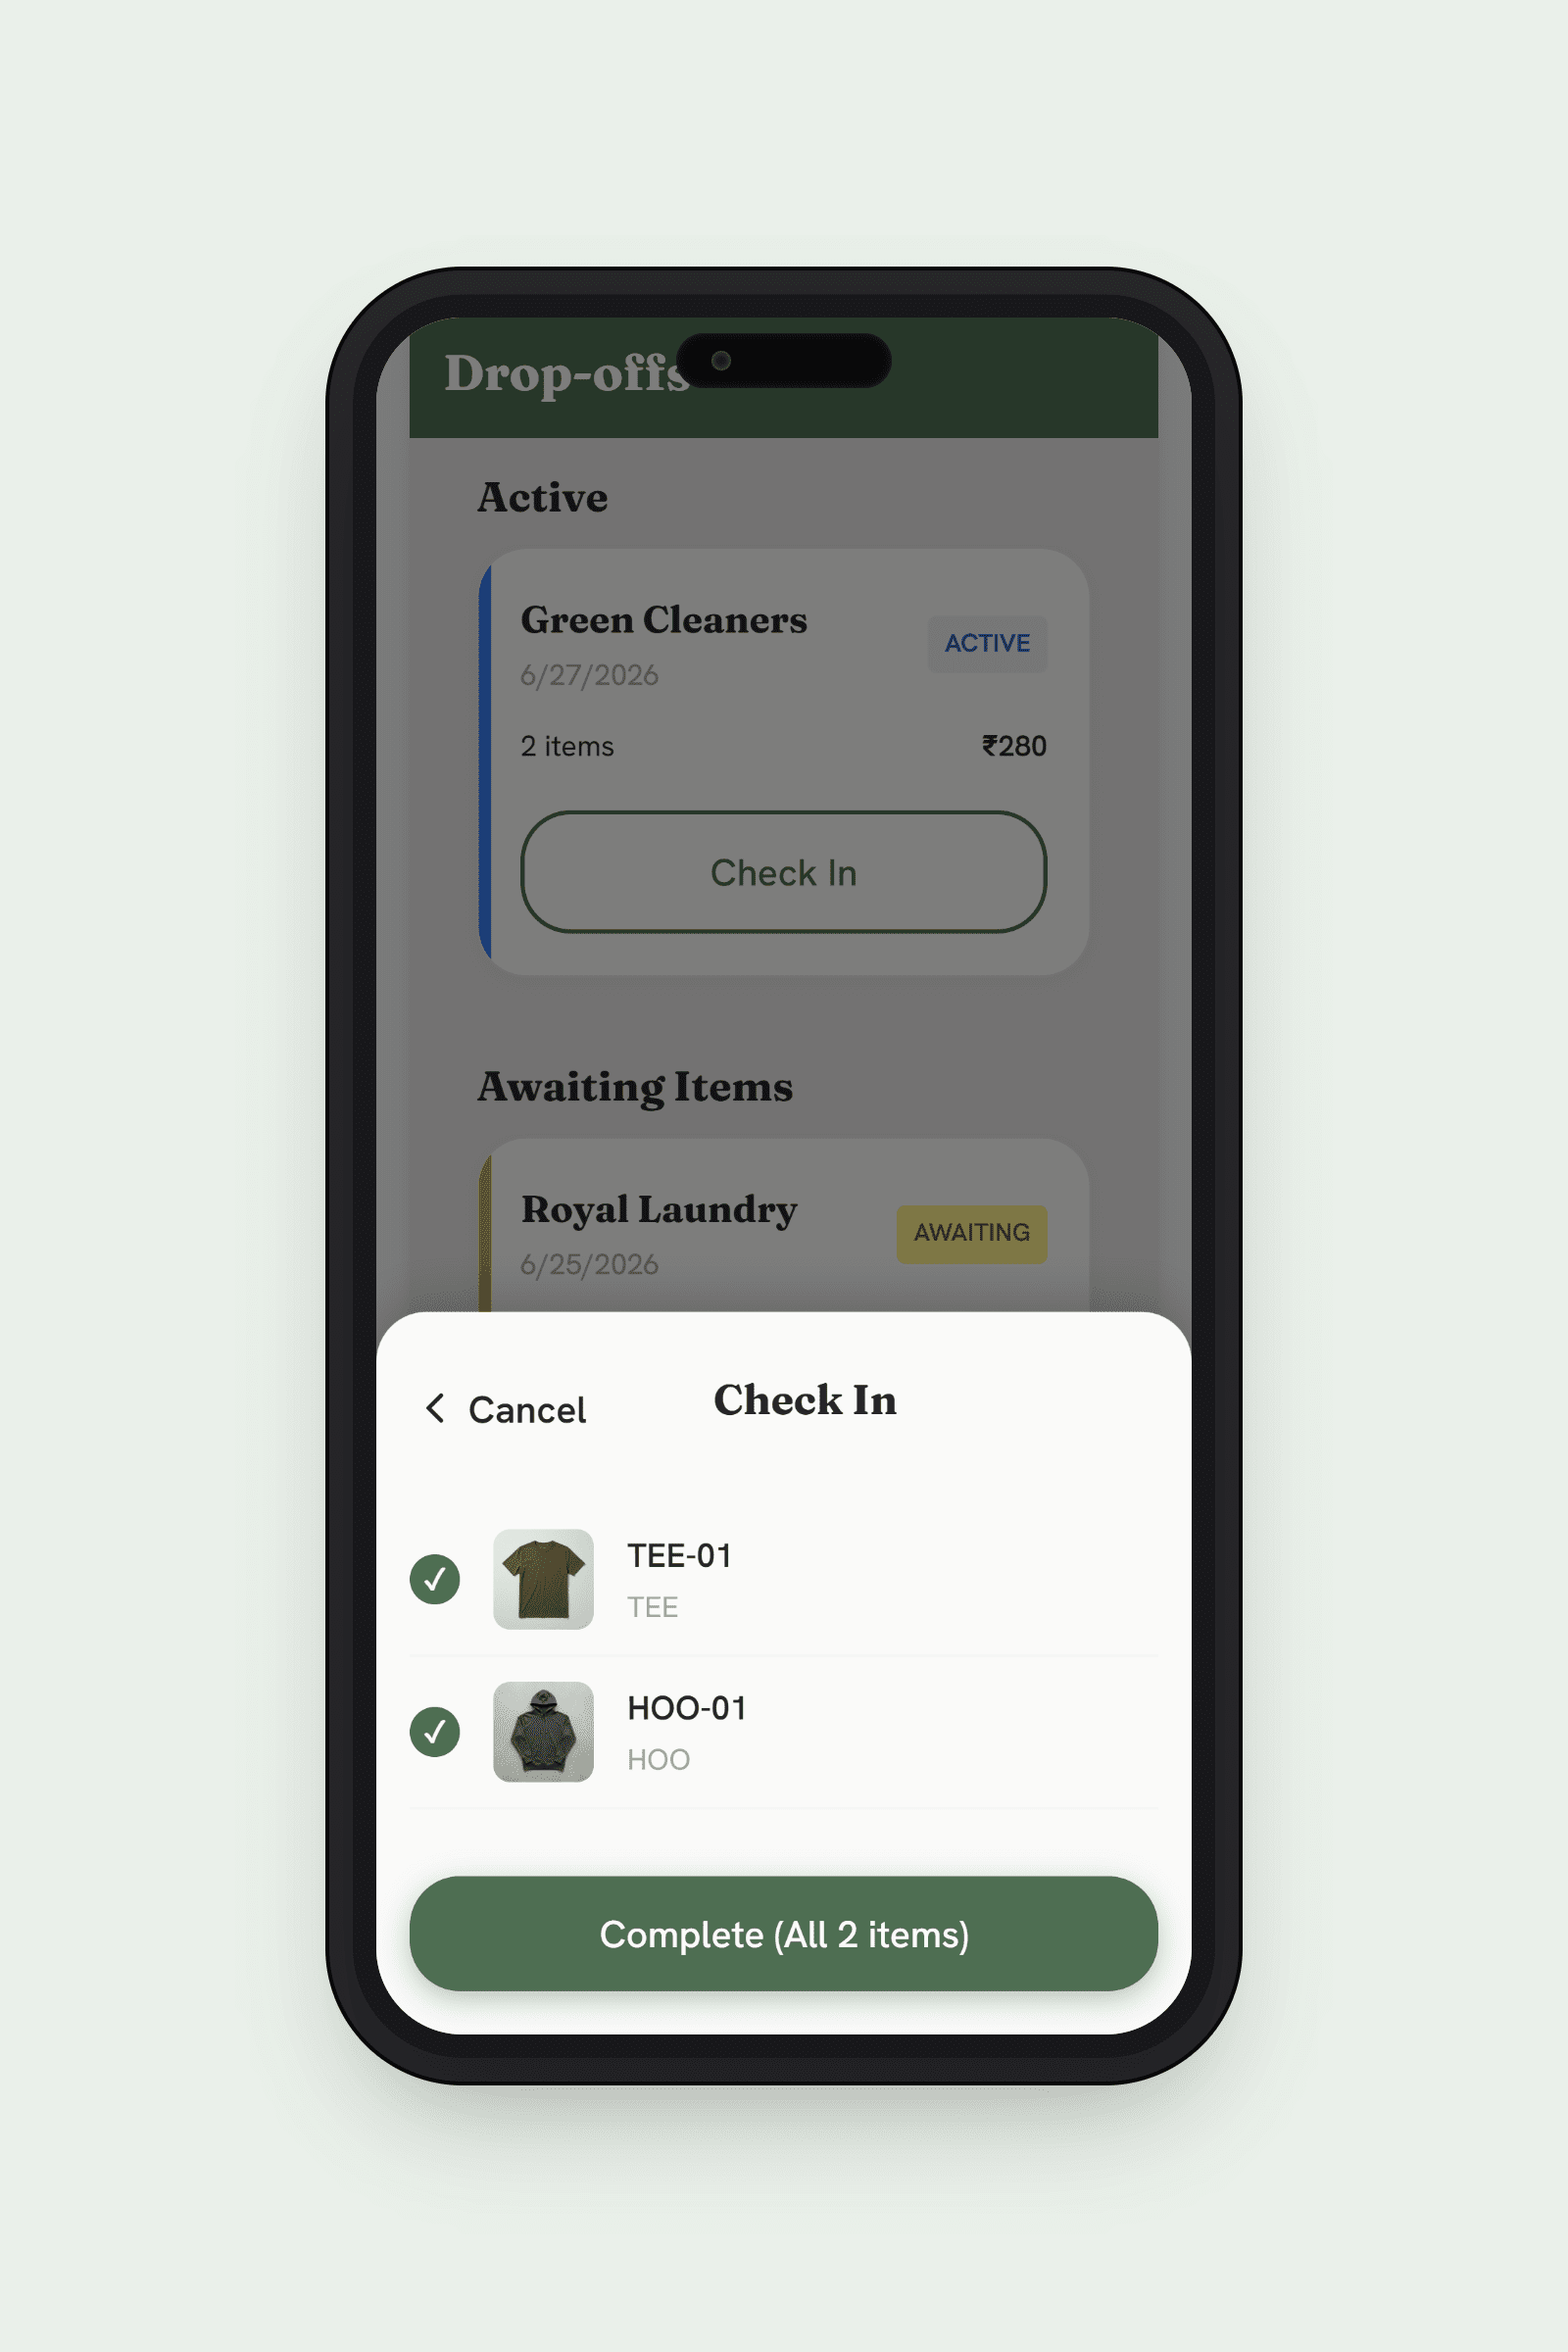
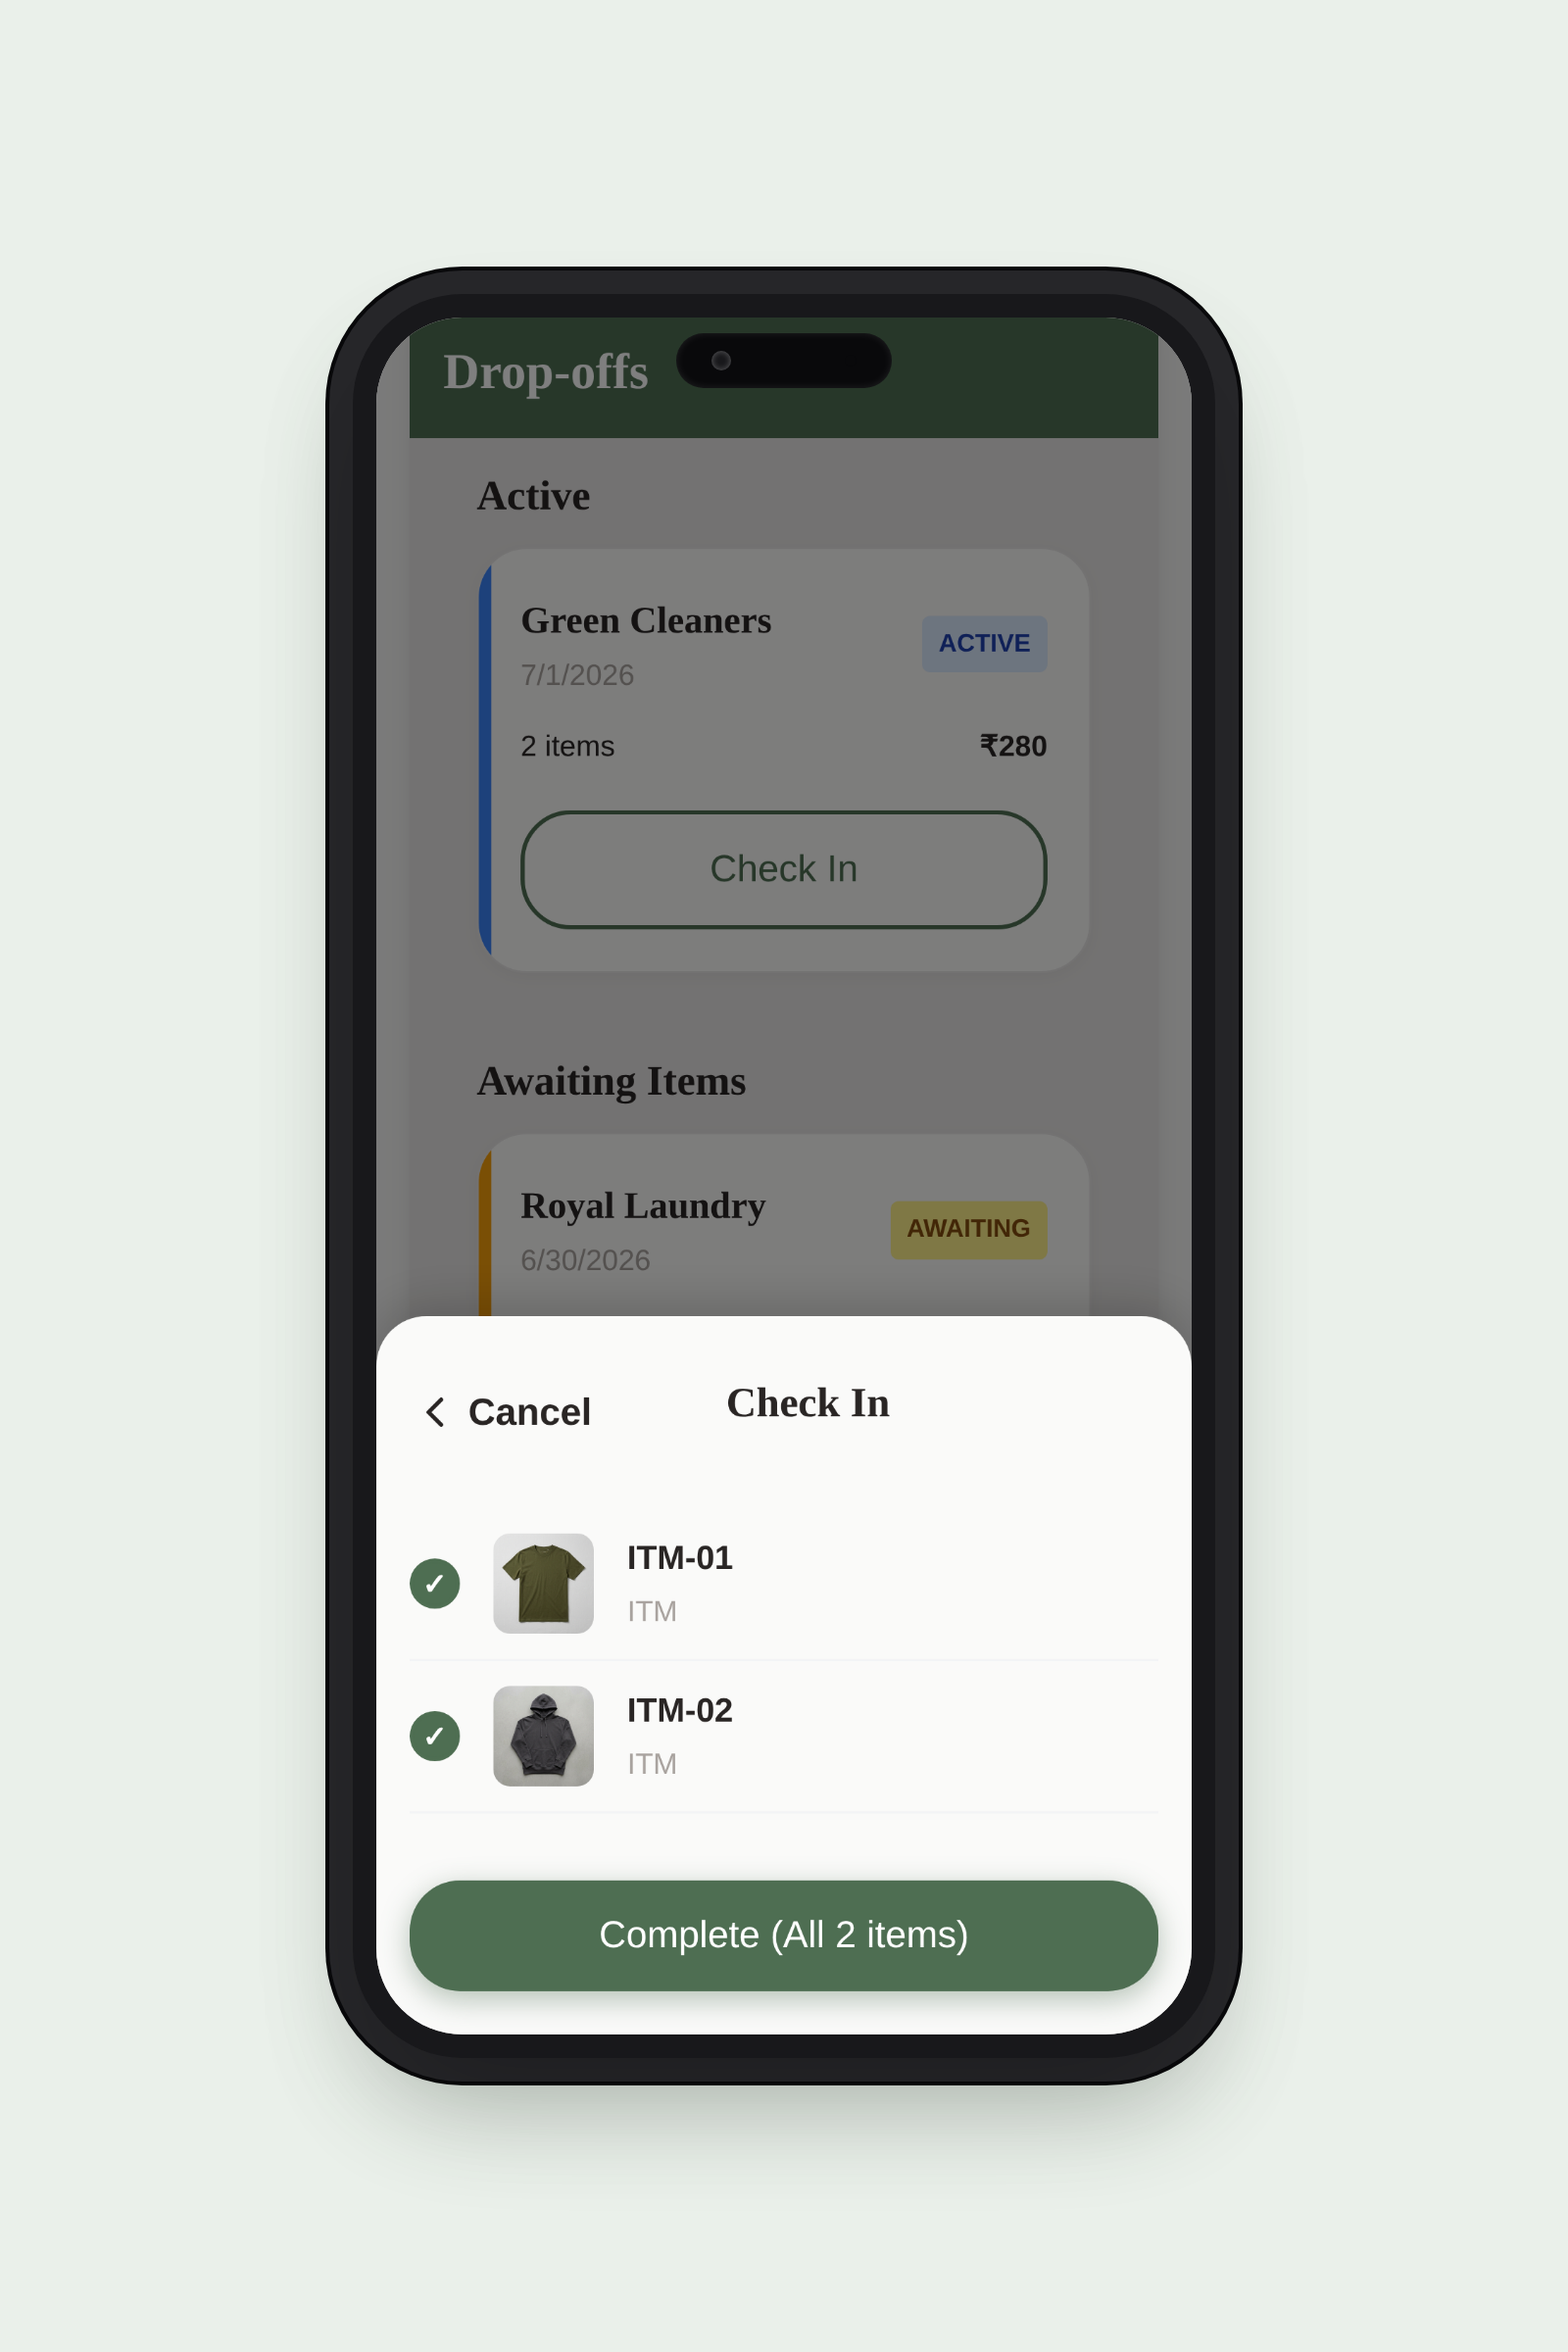
fix(readme): regenerate stale category-code screenshots, fix broken table
The gallery screenshots (wardrobe, receipt PDF) still showed old
category-based codes (TEE-01, HOO-02, SHO-01, TRO-01) from before the
Select Category step was removed. Fixed the seed data in
generate_screenshots.mjs to use the catch-all ITM-NN codes the app
actually generates now, and regenerated all 6 gallery images.

Also fixed the script itself, which had bit-rotted:
- Chrome discovery only checked Windows paths; added Linux Chromium
  lookup (same pattern as record_demo.mjs) + --no-sandbox.
- Never set the 'onboarded' IndexedDB flag, so the WelcomeScreen (added
  after this script was last touched) blocked every screen after
  reload with "No element found for selector: [data-testid=...]".

README: fixed a malformed screenshot table — GitHub-flavored markdown
only allows one header/separator row per table, so the second ":---:"
alignment row (meant for the 4/5/6 screenshot row) had nowhere valid to
be consumed and was rendering as literal text. Split into two proper
adjacent tables.

Verified: lint clean, 138 tests, build OK.

Claude-Session: https://claude.ai/code/session_01GRNXmfw5t8vapzs55DBL15

diff --git a/README.md b/README.md
@@ -33,12 +33,13 @@ Laundristic is a local-first Progressive Web App (PWA) designed for people who h
 <details>
 <summary>📱 Screenshots</summary>
 
-|                                       **1. Proof Screen (Killer Feature)**                                        |                                       **2. Receipt PDF Viewer**                                        |                                     **3. Wardrobe (Populated)**                                     |
-| :---------------------------------------------------------------------------------------------------------------: | :----------------------------------------------------------------------------------------------------: | :-------------------------------------------------------------------------------------------------: |
-| <img src="gallery/proof.png" alt="Proof screen showing garment photo, receipt, shop name and date" width="480" /> |     <img src="gallery/receipt.png" alt="Receipt PDF generated for share and print" width="480" />      |   <img src="gallery/wardrobe.png" alt="Wardrobe populated with cataloged garments" width="480" />   |
-|                                               **4. Drop-off Sheet**                                               |                                         **5. Check-in Sheet**                                          |                                       **6. Stats Dashboard**                                        |
-|                                                       :---:                                                       |                                                 :---:                                                  |                                                :---:                                                |
-|       <img src="gallery/dropoff.png" alt="Drop-off sheet with garments selected for laundry" width="480" />       | <img src="gallery/checkin.png" alt="Check-in sheet with checkboxes for returning items" width="480" /> | <img src="gallery/stats.png" alt="Stats dashboard showing spend charts and averages" width="480" /> |
+|                                       **1. Proof Screen (Killer Feature)**                                        |                                   **2. Receipt PDF Viewer**                                   |                                   **3. Wardrobe (Populated)**                                   |
+| :---------------------------------------------------------------------------------------------------------------: | :-------------------------------------------------------------------------------------------: | :---------------------------------------------------------------------------------------------: |
+| <img src="gallery/proof.png" alt="Proof screen showing garment photo, receipt, shop name and date" width="480" /> | <img src="gallery/receipt.png" alt="Receipt PDF generated for share and print" width="480" /> | <img src="gallery/wardrobe.png" alt="Wardrobe populated with cataloged garments" width="480" /> |
+
+|                                         **4. Drop-off Sheet**                                         |                                         **5. Check-in Sheet**                                          |                                       **6. Stats Dashboard**                                        |
+| :---------------------------------------------------------------------------------------------------: | :----------------------------------------------------------------------------------------------------: | :-------------------------------------------------------------------------------------------------: |
+| <img src="gallery/dropoff.png" alt="Drop-off sheet with garments selected for laundry" width="480" /> | <img src="gallery/checkin.png" alt="Check-in sheet with checkboxes for returning items" width="480" /> | <img src="gallery/stats.png" alt="Stats dashboard showing spend charts and averages" width="480" /> |
 
 </details>
 
